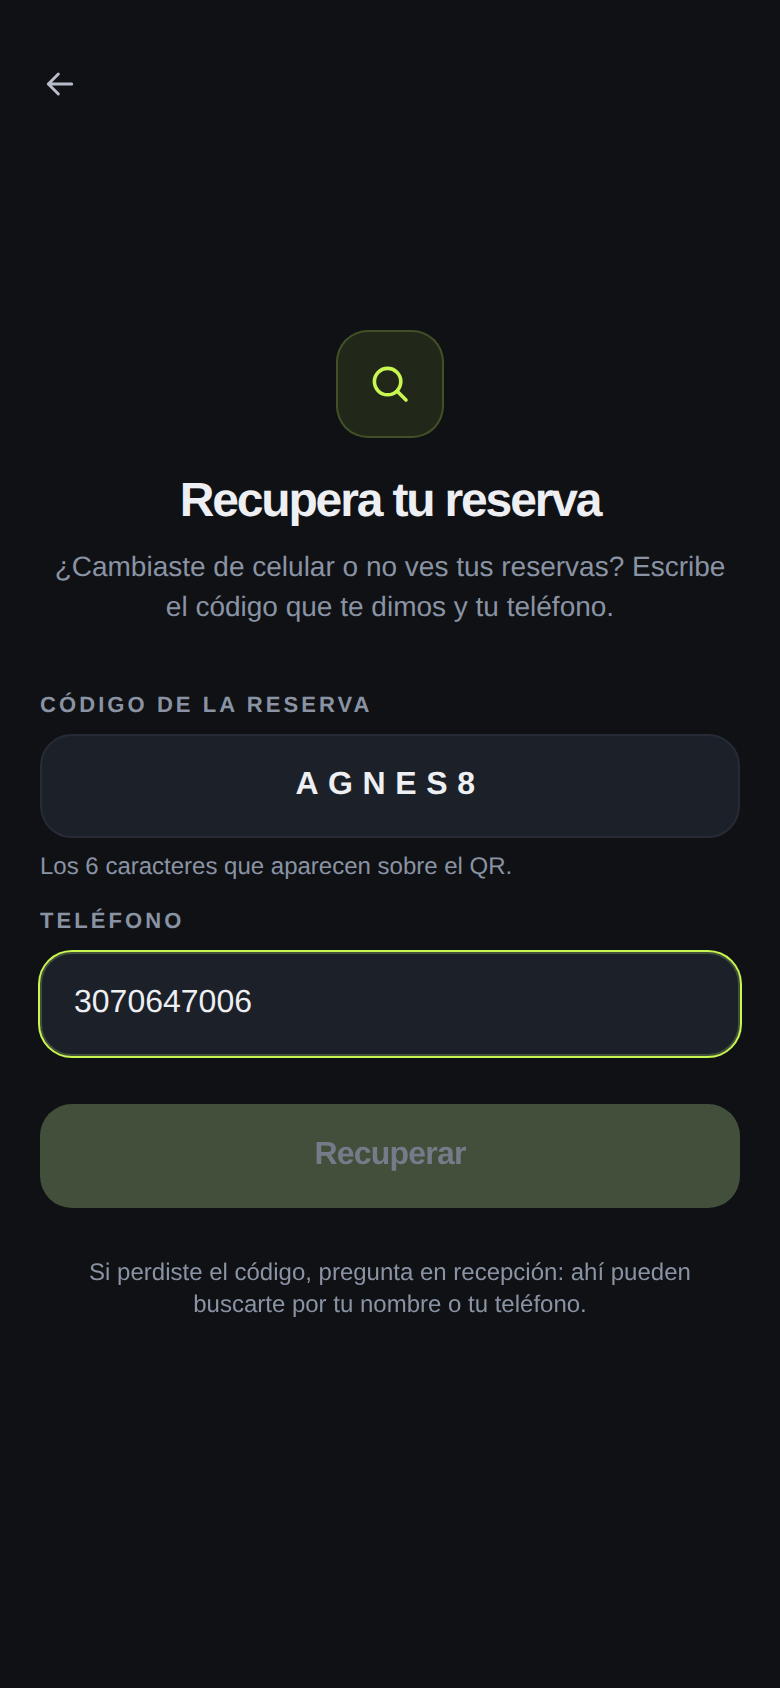
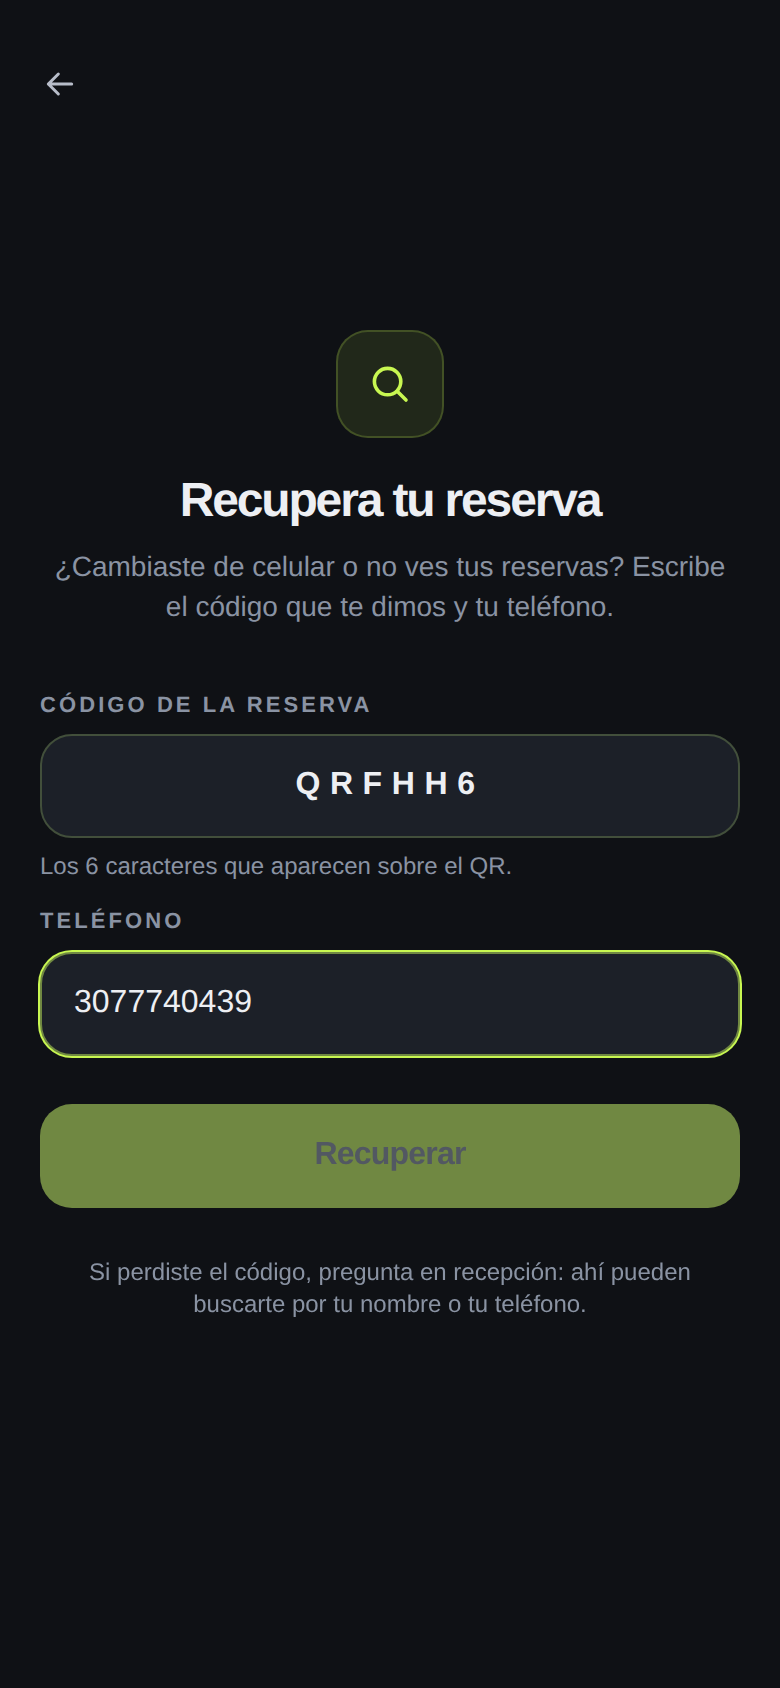
El reemplazo de una canción bloqueada se elige y se pone solo
Antes la pantalla ofrecía las versiones alternativas y esperaba un toque. Nadie
está delante del televisor del salón a media clase, así que ese toque no
llegaba nunca y la canción se perdía igual.

Ahora `marcarNoSuena` decide y ejecuta:

  1. busca otra subida de la misma canción, descartando la que acaba de fallar
     y cualquiera que ya hubiera fallado antes;
  2. guarda la primera y le pasa el sitio de la bloqueada: si era de la casa,
     la nueva también, o el hueco en la lista se quedaría sin tapar;
  3. si estaba pedida, mueve ese pedido a la nueva conservando turno, hora y
     quién lo pidió: para esa persona no cambia nada salvo que ahora sí suena;
  4. la pantalla la reproduce. El aviso solo cuenta qué pasó y se va solo.

El reemplazo es optimista, porque tampoco se puede saber si suena sin ponerlo.
Si falla, se vuelve a entrar por aquí y se prueba la siguiente versión, hasta
tres seguidas sin que ninguna llegue a sonar; el contador vuelve a cero cuando
un vídeo arranca de verdad. Cada vuelta descarta una versión, así que termina.

Un error de orden que encontró la prueba: el `deleteMany` que limpiaba la cola
al marcar la canción se llevaba por delante el pedido ANTES de que lo mirara,
así que `enCola` salía siempre falso y el reemplazo nunca heredaba el turno.
El pedido se consulta ahora antes de tocar nada y esa limpieza sobra: o se
reasigna el pedido, o se borra explícitamente si no hubo con qué reemplazar.
[…]

Changed region(s): [[0.0308, 0.6469, 0.9538, 0.7393], [0.3692, 0.4313, 0.5846, 0.4929], [0.1538, 0.5853, 0.3385, 0.6161]]

diff --git a/client/src/pages/Reproductor.jsx b/client/src/pages/Reproductor.jsx
@@ -55,6 +55,16 @@ const SIN_EMPEZAR = -1;
 // proponerla; con cualquier otro se pasa a la siguiente y ya.
 const ERRORES_DEFINITIVOS = [100, 101, 150];
 
+// Cuántos reemplazos seguidos se prueban antes de rendirse y pasar a otra cosa.
+// El reemplazo es optimista -no hay forma de saber si suena sin ponerlo-, así
+// que puede fallar también; con el tope, tres versiones malas seguidas no dejan
+// la pantalla dando vueltas.
+const MAX_REEMPLAZOS = 3;
+
+// El vídeo empezó a sonar de verdad. Sirve para dar por buena la cadena de
+// reemplazos: si suena, lo anterior se resolvió.
+const REPRODUCIENDO = 1;
+
 export default function Reproductor() {
   const queryClient = useQueryClient();
   const esAdmin = Boolean(leerToken('admin'));
@@ -67,6 +77,9 @@ export default function Reproductor() {
   // sugerencias volverían vacías.
   const reproducidas = useRef([]);
   const reintento = useRef(null);
+  // Reemplazos encadenados sin que ninguno llegue a sonar. Vuelve a cero en
+  // cuanto un vídeo arranca de verdad.
+  const reemplazos = useRef(0);
   const apartando = useRef(false);
   // Lo que está esperando en la cola. La automática también lo tiene que
   // esquivar: proponer algo que ya está pedido lo haría sonar dos veces.
@@ -222,44 +235,58 @@ export default function Reproductor() {
   }, [apartarProxima, ponerSugerida, cargar]);
 
   /**
-   * YouTube se negó a poner el vídeo.
+   * YouTube se negó a poner el vídeo. SE RESUELVE SOLO.
    *
-   * Si el motivo es definitivo -no existe, o el dueño no deja incrustarlo- se
-   * avisa al servidor para que esa canción no se vuelva a proponer nunca. Es la
-   * única forma de saberlo: la API de datos dice que se deja incrustar y luego
-   * el reproductor la rechaza, y pasa justo con lo más conocido (los sellos
-   * grandes bloquean sus vídeos fuera de YouTube).
-   */
-  const fallo = useCallback(async (codigo) => {
-    const video = reproducidas.current[reproducidas.current.length - 1];
-    if (!ERRORES_DEFINITIVOS.includes(codigo) || !video) return;
-
-    const info = await api.admin.noSuena(video).catch(() => ({}));
-    setDescartada({
-      titulo: info.titulo || 'Esa canción',
-      // Otras subidas de la misma canción que sí se dejan poner. Casi siempre
-      // hay: lo que bloquea el sello es SU vídeo, no la canción.
-      alternativas: info.alternativas ?? [],
-    });
-    // Se cae de las sugerencias apartadas por si estaba en la tanda.
-    sugeridasRef.current = sugeridasRef.current.filter((c) => c.videoId !== video);
-    setSugeridas(sugeridasRef.current);
-    refrescar();
-  }, [refrescar]);
-
-  /**
-   * Poner la versión que sí suena en lugar de la que YouTube rechazó.
+   * Nadie está delante de esta pantalla a media clase, así que no se pregunta
+   * nada: el servidor marca la canción para no volver a proponerla, busca otra
+   * subida de la MISMA canción -lo que bloquea el sello es su vídeo, no la
+   * canción; casi siempre está el canal «— Topic», el audio oficial o una
+   * versión en vivo-, la guarda en lugar de la bloqueada y la pantalla la pone.
+   * Lo único que se ve es un aviso contando qué pasó, y se retira solo.
    *
-   * Entra a la lista del gimnasio -la bloqueada estaba ahí y su hueco hay que
-   * llenarlo- y además suena en el acto, que es lo que quiere quien la toca.
+   * El reemplazo es optimista: tampoco se puede saber si suena sin ponerlo. Si
+   * falla, se vuelve a entrar aquí y se prueba la siguiente versión, hasta
+   * `MAX_REEMPLAZOS`. Cada vuelta descarta una, así que la cadena termina.
    */
-  const reemplazarPor = useCallback(
-    async (cancion) => {
-      setDescartada(null);
-      await api.admin.agregarDeYoutube(cancion.videoId).catch(() => {});
-      ponerSugerida(cancion);
+  const fallo = useCallback(
+    async (codigo) => {
+      const video = reproducidas.current[reproducidas.current.length - 1];
+      reemplazos.current += 1;
+
+      // Los errores pasajeros (2, 5) y las cadenas que se alargan de más no
+      // merecen reemplazo: se pasa a lo siguiente y ya.
+      if (
+        !ERRORES_DEFINITIVOS.includes(codigo) ||
+        !video ||
+        reemplazos.current > MAX_REEMPLAZOS
+      ) {
+        refAvanzar.current();
+        return;
+      }
+
+      const info = await api.admin.noSuena(video).catch(() => ({}));
+
+      // Se cae de las sugerencias apartadas por si estaba en la tanda.
+      sugeridasRef.current = sugeridasRef.current.filter((c) => c.videoId !== video);
+      setSugeridas(sugeridasRef.current);
+
+      setDescartada({ titulo: info.titulo || 'Esa canción', reemplazo: info.reemplazo ?? null });
+
+      if (!info.reemplazo?.videoId) {
+        // Sin con qué reemplazarla, sigue lo que tocaba.
+        refAvanzar.current();
+        return;
+      }
+
+      // Si la bloqueada estaba pedida, el servidor ya movió el pedido a la de
+      // reemplazo: sigue siendo la canción de esa persona, no música
+      // automática, y el sondeo la va a pintar como tal.
+      setAutomatica(info.enCola ? null : info.reemplazo);
+      setError(null);
+      cargar(info.reemplazo.videoId);
+      refrescar();
     },
-    [ponerSugerida]
+    [refrescar, cargar]
   );
 
   /**
@@ -357,13 +384,14 @@ export default function Reproductor() {
               refApartar.current();
             },
             onStateChange: (e) => {
+              // Que suene es la señal de que la cadena de reemplazos funcionó.
+              if (e.data === REPRODUCIENDO) reemplazos.current = 0;
               if (e.data === TERMINADO) refAvanzar.current();
             },
             onError: (e) => {
-              // Un vídeo que falla no puede congelar la pantalla: se pasa al
-              // siguiente pase lo que pase.
+              // `fallo` decide qué sigue: la versión de reemplazo, o lo que
+              // tocaba. Lo que no puede es dejar la pantalla congelada.
               refFallo.current(e?.data);
-              refAvanzar.current();
             },
           },
         });
@@ -416,14 +444,31 @@ export default function Reproductor() {
         </div>
       )}
 
+      {/* Aviso de lo que pasó. NO pide nada: el cambio ya se hizo solo. Está
+          para que quien pase por la pantalla entienda por qué sonó otra versión
+          y sepa que su lista quedó corregida. */}
       {descartada && (
         <div className="shrink-0 px-5 pt-3">
           <Aviso tono="peligro">
             <div className="flex items-start gap-3">
-              <p className="flex-1">
-                <strong>{descartada.titulo}</strong>: YouTube no la deja sonar fuera de su
-                página, así que se saltó y ya no se va a proponer. Queda marcada en Música.
-              </p>
+              <div className="flex-1">
+                <p>
+                  <strong>{descartada.titulo}</strong>: YouTube no la deja sonar fuera de su
+                  página.
+                </p>
+                {descartada.reemplazo ? (
+                  <p className="mt-1 text-humo-100">
+                    Se cambió sola por{' '}
+                    <strong>{descartada.reemplazo.titulo}</strong>
+                    {descartada.reemplazo.canal ? ` (${descartada.reemplazo.canal})` : ''}, que
+                    queda en tu lista en su lugar.
+                  </p>
+                ) : (
+                  <p className="mt-1 text-humo-100">
+                    No encontramos otra versión que se deje poner, así que siguió la siguiente.
+                  </p>
+                )}
+              </div>
               <button
                 onClick={() => setDescartada(null)}
                 className="shrink-0 underline font-semibold"
@@ -431,47 +476,6 @@ export default function Reproductor() {
                 Entendido
               </button>
             </div>
-
-            {/* Lo que bloquea el sello es SU vídeo, no la canción: casi siempre
-                está subida por otro lado y esa sí se deja poner. Tocar una la
-                guarda en la lista del gimnasio y la pone a sonar, que es lo que
-                se quiere hacer con ella. */}
-            {descartada.alternativas.length > 0 && (
-              <>
-                <p className="mt-3 font-semibold text-humo-100">
-                  Estas versiones sí se pueden poner. Toca una para cambiarla en tu lista:
-                </p>
-                <ul className="mt-2 space-y-1.5">
-                  {descartada.alternativas.map((c) => (
-                    <li key={c.videoId}>
-                      <button
-                        onClick={() => reemplazarPor(c)}
-                        className="w-full flex items-center gap-3 rounded-2xl border border-carbon-600 bg-carbon-800 px-2.5 py-2 text-left hover:border-carbon-500 transition-colors"
-                      >
-                        {c.miniatura && (
-                          <img
-                            src={c.miniatura}
-                            alt=""
-                            className="w-14 h-10 rounded-lg object-cover shrink-0"
-                          />
-                        )}
-                        <div className="min-w-0 flex-1">
-                          <p className="text-sm font-semibold truncate text-humo-100">
-                            {c.titulo}
-                          </p>
-                          <p className="text-[11px] text-humo-500 truncate">
-                            {c.canal} · {duracion(c.duracionSeg)}
-                          </p>
-                        </div>
-                        <span className="text-[10px] font-bold text-volt-500 shrink-0">
-                          CAMBIAR
-                        </span>
-                      </button>
-                    </li>
-                  ))}
-                </ul>
-              </>
-            )}
           </Aviso>
         </div>
       )}

diff --git a/server/src/services/musica.service.js b/server/src/services/musica.service.js
@@ -267,12 +267,21 @@ export async function importarDeYoutube(texto, { deLaCasa = true } = {}) {
 export async function marcarNoSuena(videoId) {
   let cancion = await prisma.cancion.findUnique({ where: { videoId } });
 
+  // OJO CON EL ORDEN: el pedido se mira ANTES de tocar nada. Si alguien la
+  // estaba esperando, su sitio en la cola es lo que hereda el reemplazo, y
+  // buscarlo despues de limpiar la cola lo dejaba siempre en null.
+  const pedido = cancion
+    ? await prisma.pedidoMusica.findFirst({
+        where: { cancionId: cancion.id, estado: { in: ['EN_FILA', 'SONANDO'] } },
+      })
+    : null;
+
   if (!cancion) {
     // Puede no estar guardada: el reproductor tambien pone cosas que vienen
     // directas del buscador del panel. Se guarda igual, ya marcada, para no
     // volver a toparse con ella si algun dia entra al catalogo.
     const v = await detalleYoutube(videoId).catch(() => null);
-    if (!v) return { ok: true, marcada: false, alternativas: [] };
+    if (!v) return { ok: true, marcada: false, reemplazo: null, enCola: false };
     cancion = await prisma.cancion.create({
       data: {
         videoId: v.videoId,
@@ -289,10 +298,16 @@ export async function marcarNoSuena(videoId) {
       where: { id: cancion.id },
       data: { bloqueadaEn: new Date() },
     });
-    // Si estaba esperando en la cola se saca: no va a sonar y solo estorbaria.
-    await prisma.pedidoMusica.deleteMany({
-      where: { cancionId: cancion.id, estado: 'EN_FILA' },
-    });
+  }
+
+  const alternativas = await otrasVersiones(cancion).catch(() => []);
+  const reemplazo = alternativas.length
+    ? await ponerEnLugarDe(cancion, alternativas[0], pedido).catch(() => null)
+    : null;
+
+  // Sin con que reemplazarla, un pedido que espera solo estorba: no va a sonar.
+  if (!reemplazo && pedido?.estado === 'EN_FILA') {
+    await prisma.pedidoMusica.delete({ where: { id: pedido.id } });
   }
 
   return {
@@ -300,8 +315,58 @@ export async function marcarNoSuena(videoId) {
     marcada: true,
     titulo: cancion.titulo,
     artista: cancion.artista ?? cancion.canal ?? null,
-    alternativas: await otrasVersiones(cancion).catch(() => []),
+    // La que se puso en su lugar, YA GUARDADA y ya metida en la cola si hacia
+    // falta. La pantalla solo tiene que reproducirla: la decision esta tomada.
+    reemplazo,
+    // Si estaba pedida, el reemplazo heredo su sitio y la pantalla no debe
+    // tratarlo como musica automatica.
+    enCola: Boolean(pedido),
   };
+}
+
+/**
+ * Mete la version que si suena en el sitio que dejo la bloqueada.
+ *
+ * SIN PREGUNTARLE A NADIE. La pantalla esta al fondo del salon y no hay quien
+ * toque un boton a media clase, asi que se elige la primera alternativa -las
+ * devuelve `buscar`, que ya vienen ordenadas por relevancia- y se da por buena.
+ *
+ * Es optimista a proposito: no hay forma de comprobar que una version se deja
+ * incrustar sin intentar ponerla. Si esta tampoco suena, el reproductor vuelve
+ * por aqui, esta queda marcada tambien y se prueba la siguiente. Se arregla
+ * solo, y como cada vuelta descarta una version, termina.
+ */
+async function ponerEnLugarDe(bloqueada, alternativa, pedido) {
+  const nueva = await guardarDeYoutube(alternativa.videoId);
+
+  // Hereda el sitio de la bloqueada: si era de la lista del gimnasio, la de
+  // reemplazo tambien, o el hueco se quedaria sin tapar.
+  const guardada = bloqueada.deLaCasa
+    ? await prisma.cancion.update({
+        where: { id: nueva.id },
+        data: { deLaCasa: true, activa: true },
+      })
+    : nueva;
+
+  if (pedido) {
+    // La cola no admite la misma cancion dos veces (indice unico parcial). Si
+    // el reemplazo YA estaba esperando, el pedido de la bloqueada sobra.
+    const yaEsperaba = await prisma.pedidoMusica.findFirst({
+      where: { cancionId: guardada.id, estado: { in: ['EN_FILA', 'SONANDO'] } },
+    });
+    if (yaEsperaba) {
+      await prisma.pedidoMusica.delete({ where: { id: pedido.id } });
+    } else {
+      // Conserva turno, hora y quien lo pidio: para esa persona no cambia nada
+      // salvo que ahora si suena.
+      await prisma.pedidoMusica.update({
+        where: { id: pedido.id },
+        data: { cancionId: guardada.id },
+      });
+    }
+  }
+
+  return serializarCancion(guardada);
 }
 
 /**

diff --git a/README.md b/README.md
@@ -407,13 +407,29 @@ Se guarda la **fecha** y no un booleano porque YouTube cambia de opinión: así 
 revisar cuál se cayó y cuándo. Los demás códigos de error (2, 5) son pasajeros y solo hacen
 pasar a la siguiente.
 
-**No se puede evitar, pero casi siempre hay salida.** Lo que el sello bloquea es *su* vídeo,
-no la canción: la misma suele estar subida por el canal «— Topic» que genera YouTube, como
-audio oficial o en vivo, y esas versiones normalmente sí se dejan incrustar. Por eso, al
-marcar una, el servidor busca la canción por título y artista y devuelve hasta cuatro
-alternativas —descartando la que acaba de fallar y cualquiera que ya hubiera fallado antes—.
-La pantalla las ofrece en el mismo aviso: tocar una la **guarda en la lista del gimnasio y
-la pone a sonar**, así el hueco que dejó la bloqueada queda tapado sin ir al panel.
+**No se puede evitar, pero se arregla solo.** Lo que el sello bloquea es *su* vídeo, no la
+canción: la misma suele estar subida por el canal «— Topic» que genera YouTube, como audio
+oficial o en vivo, y esas versiones normalmente sí se dejan incrustar. Así que al marcar una,
+el servidor **elige el reemplazo y lo instala sin preguntar**:
+
+1. busca la canción por título y artista, descartando la que acaba de fallar y cualquiera
+   que ya hubiera fallado antes —proponer un reemplazo que también se va a saltar sería peor
+   que no proponer nada—;
+2. guarda la primera en el catálogo y le pasa el sitio de la bloqueada: si era **de la casa**,
+   la nueva también, o el hueco en la lista se quedaría sin tapar;
+3. si la bloqueada estaba **pedida**, mueve ese pedido a la nueva. Conserva turno, hora y
+   quién lo pidió: para esa persona no cambia nada salvo que ahora sí suena;
+4. la pantalla la reproduce. Lo único que se ve es un aviso contando qué pasó, que se retira
+   solo al minuto y no pide nada.
+
+Nadie está delante de la pantalla a media clase, y ese es justo el punto: antes esto ofrecía
+las alternativas y esperaba un toque que nunca llegaba.
+
+**El reemplazo es optimista**, porque tampoco hay forma de saber si suena sin ponerlo. Si
+falla, se vuelve a entrar por aquí, esa queda marcada también y se prueba la siguiente
+versión, hasta `MAX_REEMPLAZOS` (3) sin que ninguna llegue a sonar; el contador vuelve a cero
+en cuanto un vídeo arranca de verdad. Como cada vuelta descarta una versión, la cadena
+termina.
 
 La búsqueda cuesta 100 unidades de cuota, pero solo ocurre cuando una canción falla de
 verdad, y una vez por canción: a partir de ahí queda marcada y no se vuelve a intentar.
